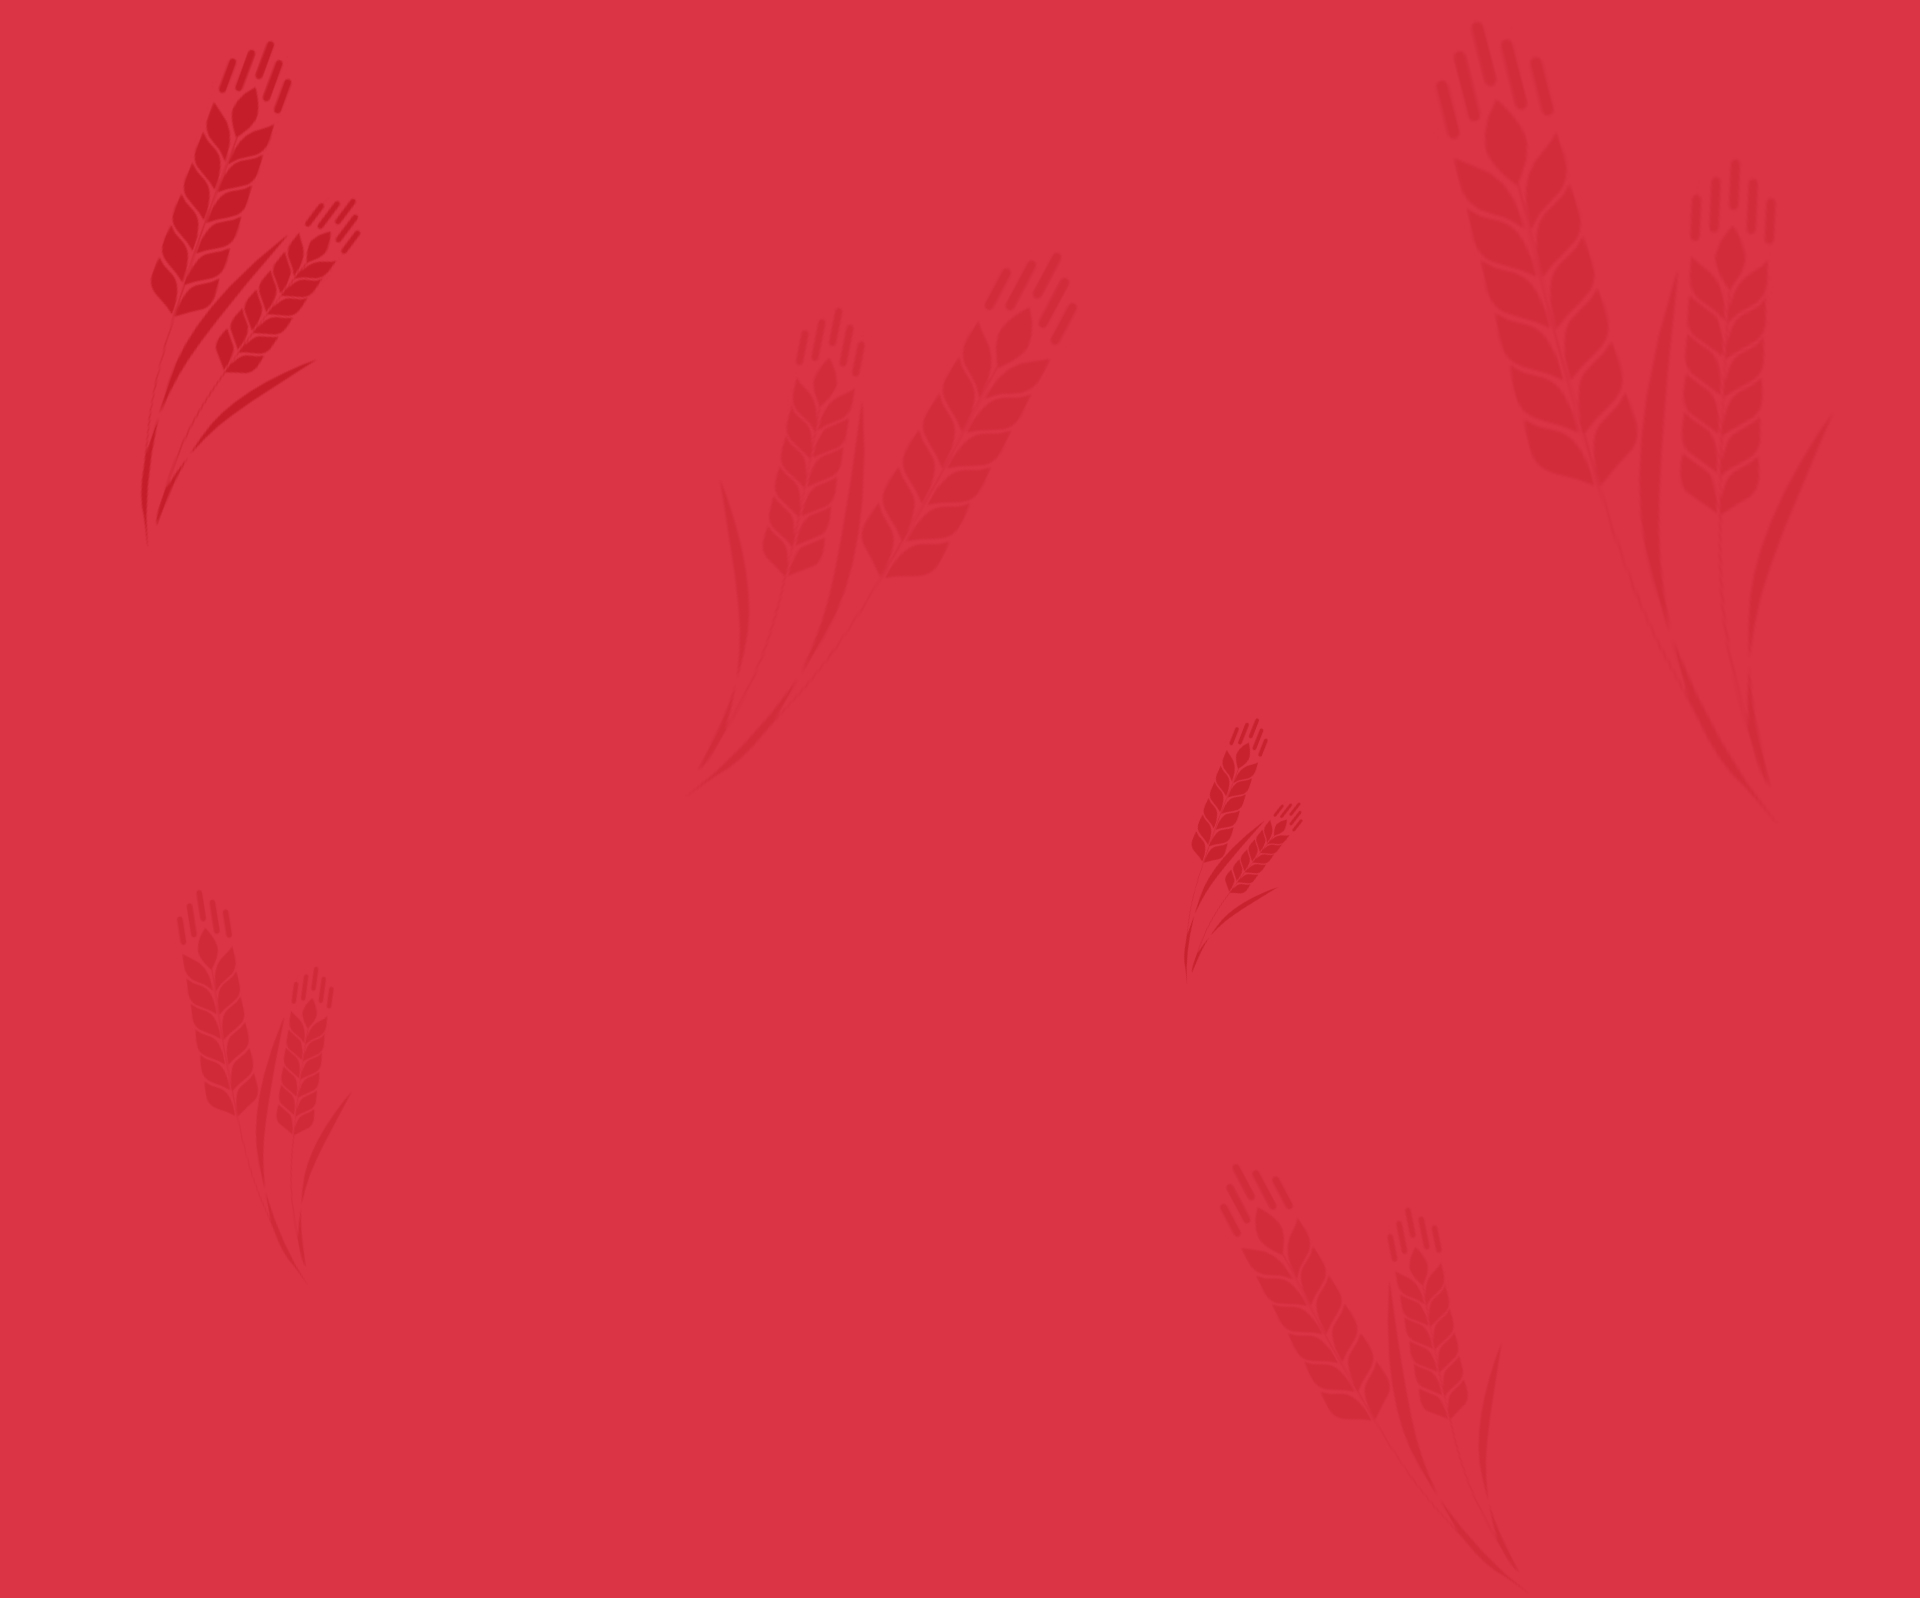
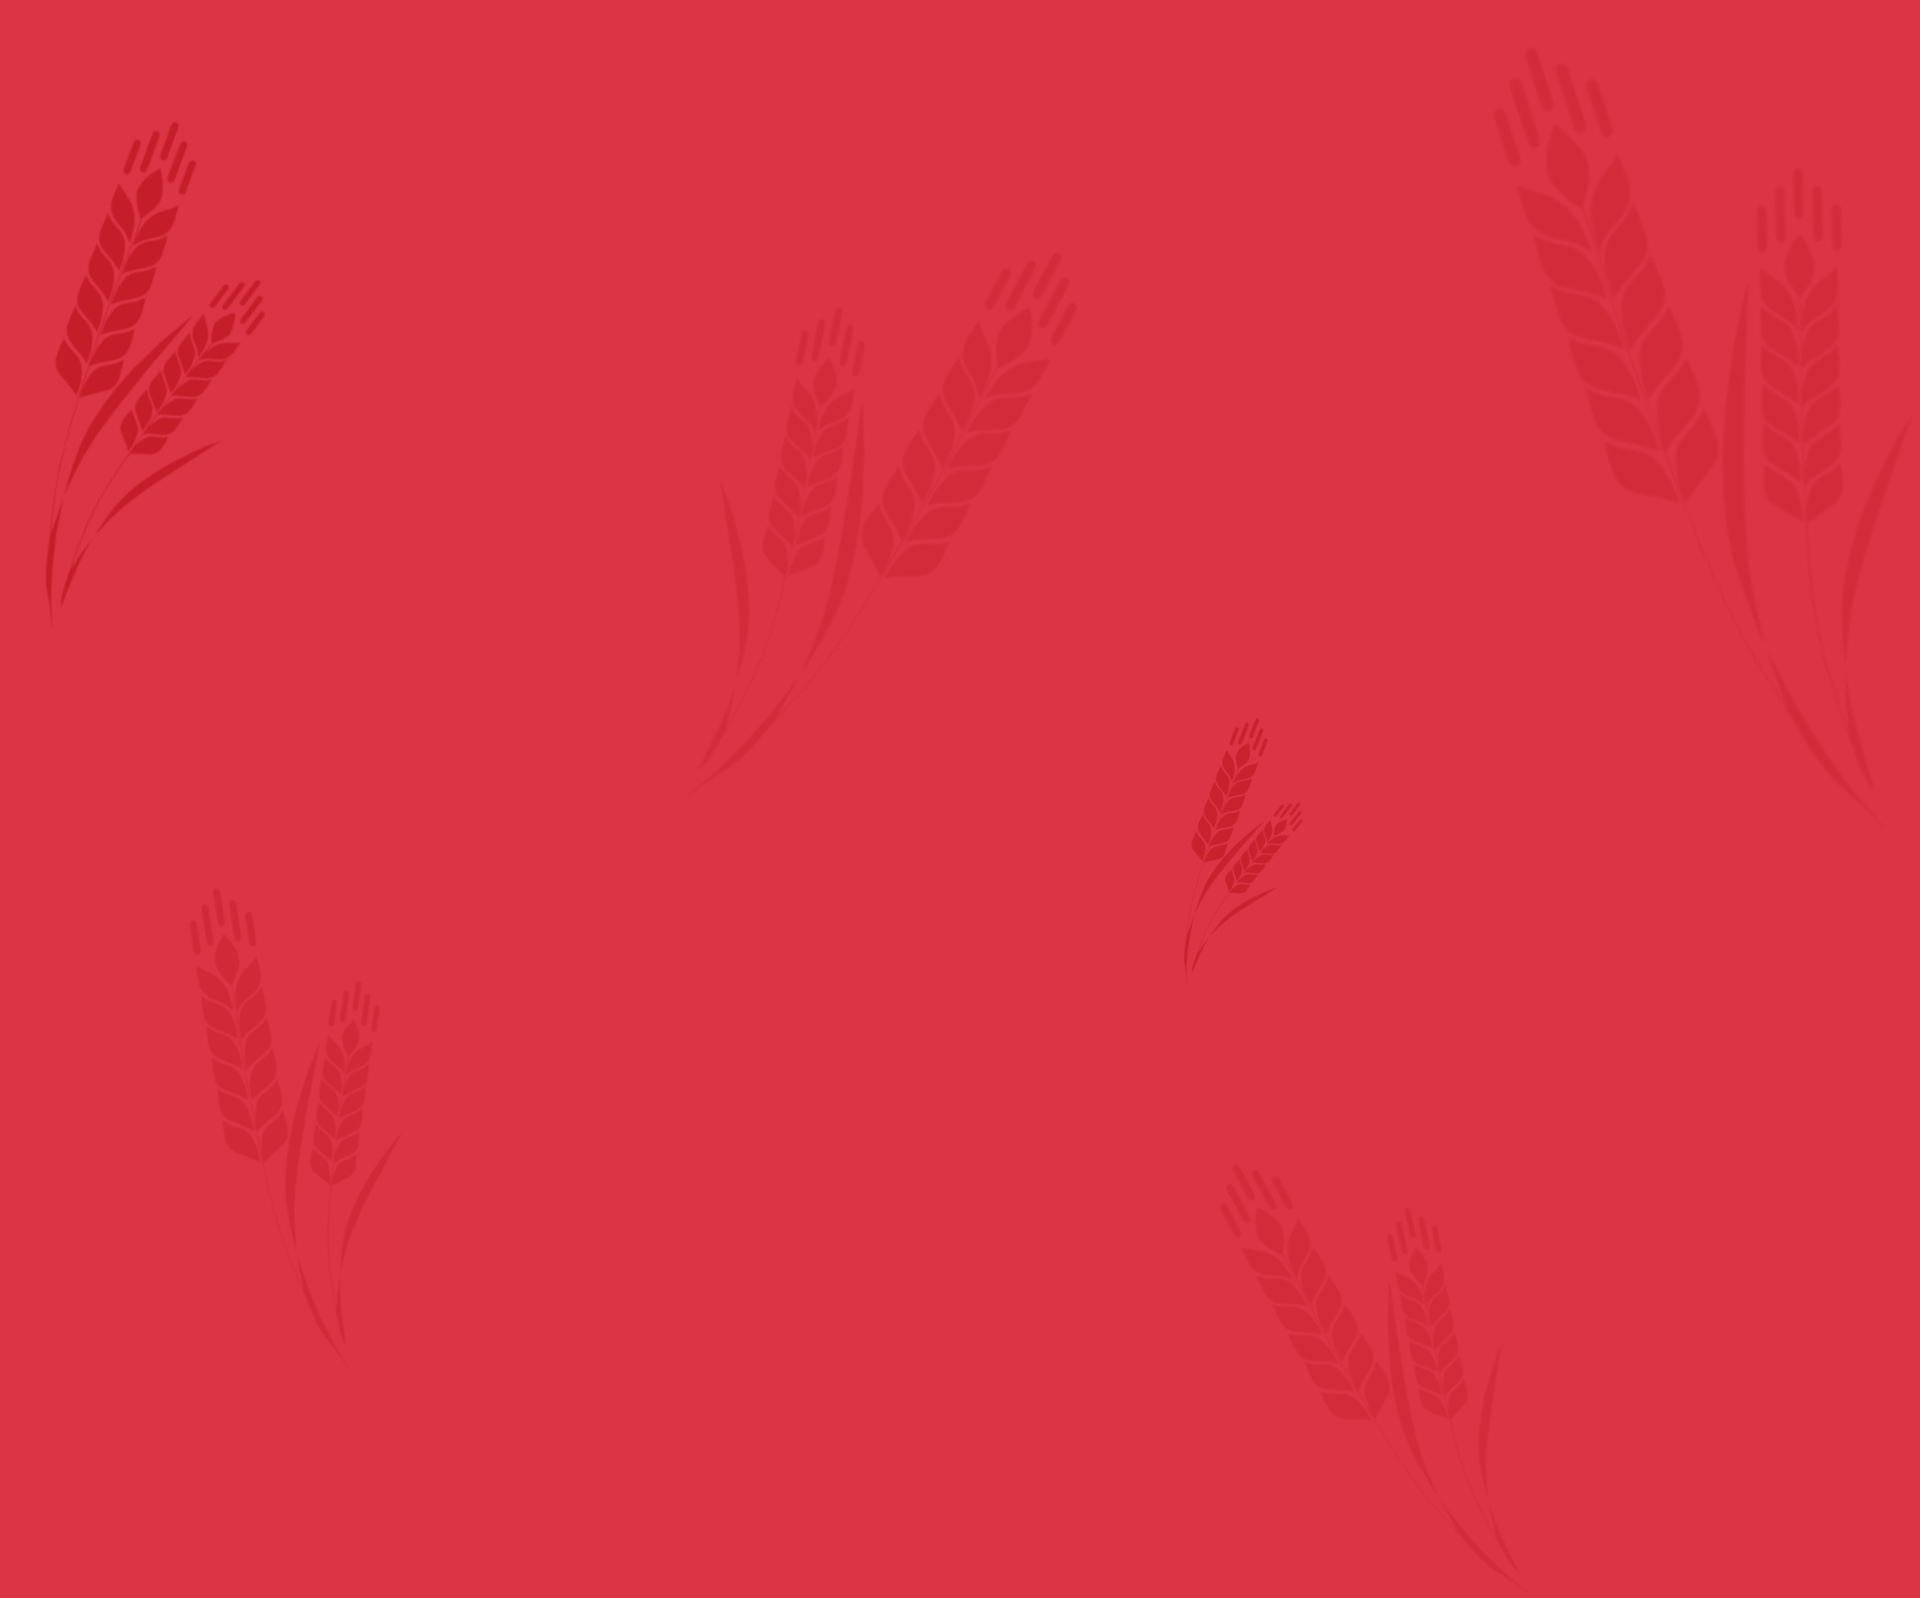
background and gsap change

Changed region(s): [[0.0312, 0.0307, 0.1875, 0.3066]]

diff --git a/css/style.css b/css/style.css
@@ -386,10 +386,10 @@ table {
 }
 @media screen and (min-width: 75em) {
   .products__title {
-    background-image: url(../img/breadstick-1.webp), url(../img/products-title-background.webp);
+    background-image: url(../img/breadstick-1.webp), url(../img/products-title-background.webp), url(../img/products-title-background.webp);
     background-size: 30%, contain;
-    background-repeat: no-repeat, repeat;
-    background-position: 120% 80%, center;
+    background-repeat: no-repeat;
+    background-position: 120% 80%, 5%, 95%;
   }
 }
 .products__card {
@@ -583,10 +583,10 @@ table {
 }
 @media screen and (min-width: 75em) {
   .company__title {
-    background-image: url(../img/breadstick-3.webp), url(../img/company-background.webp);
+    background-image: url(../img/breadstick-3.webp), url(../img/company-background.webp), url(../img/company-background.webp);
     background-size: 40%, contain;
-    background-repeat: no-repeat, repeat;
-    background-position: -30% 50%, right;
+    background-repeat: no-repeat;
+    background-position: -30% 50%, right, left;
   }
 }
 

diff --git a/sass/sections/_company.scss b/sass/sections/_company.scss
@@ -31,10 +31,10 @@
 
     @media screen and (min-width: $bp-xl) {
       background-image: url(../img/breadstick-3.webp),
-        url(../img/company-background.webp);
+        url(../img/company-background.webp), url(../img/company-background.webp);
       background-size: 40%, contain;
-      background-repeat: no-repeat, repeat;
-      background-position: -30% 50%, right;
+      background-repeat: no-repeat;
+      background-position: -30% 50%, right, left;
     }
   }
 }

diff --git a/sass/sections/_products.scss b/sass/sections/_products.scss
@@ -35,10 +35,11 @@
 
     @media screen and (min-width: $bp-xl) {
       background-image: url(../img/breadstick-1.webp),
+        url(../img/products-title-background.webp),
         url(../img/products-title-background.webp);
       background-size: 30%, contain;
-      background-repeat: no-repeat, repeat;
-      background-position: 120% 80%, center;
+      background-repeat: no-repeat;
+      background-position: 120% 80%, 5%, 95%;
     }
   }
 

diff --git a/app.js b/app.js
@@ -138,10 +138,9 @@ const animationElements = function () {
   sectionsProducts.forEach((section) => {
     gsap.fromTo(
       section.querySelector('.products__composition'),
-      { x: '+=100', opacity: 0.5 },
+      { x: '+=100' },
       {
         x: 0,
-        opacity: 1,
         stagger: 0.15,
         duration: 1,
         ease: 'easeInOut',
